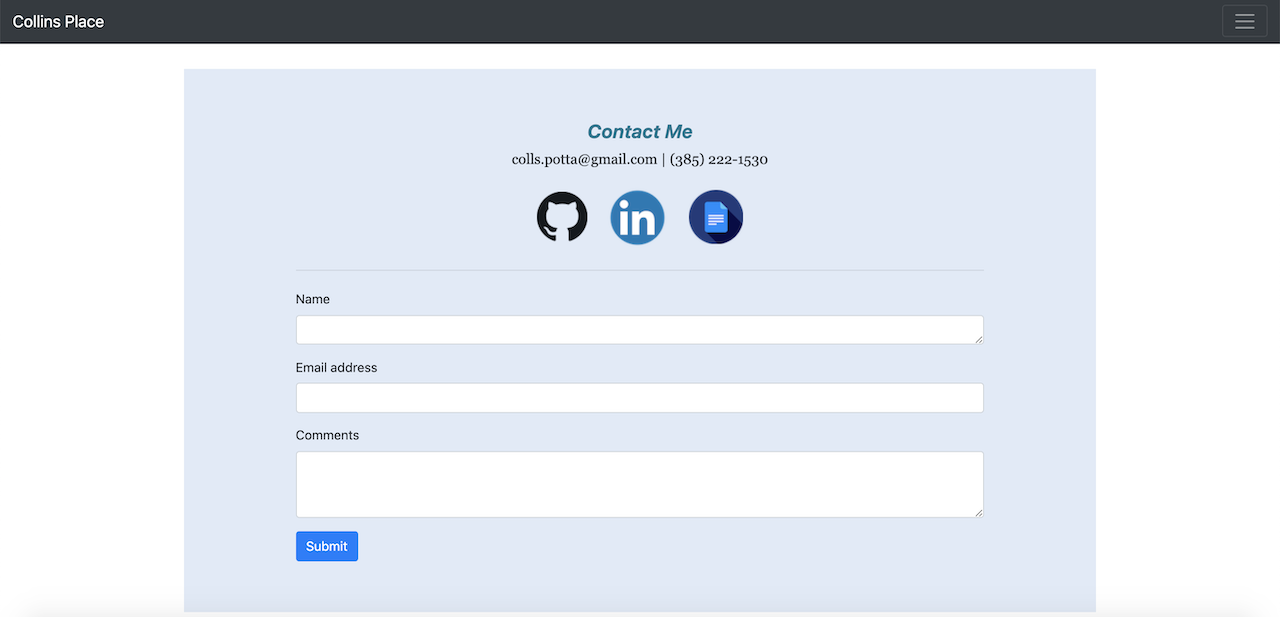
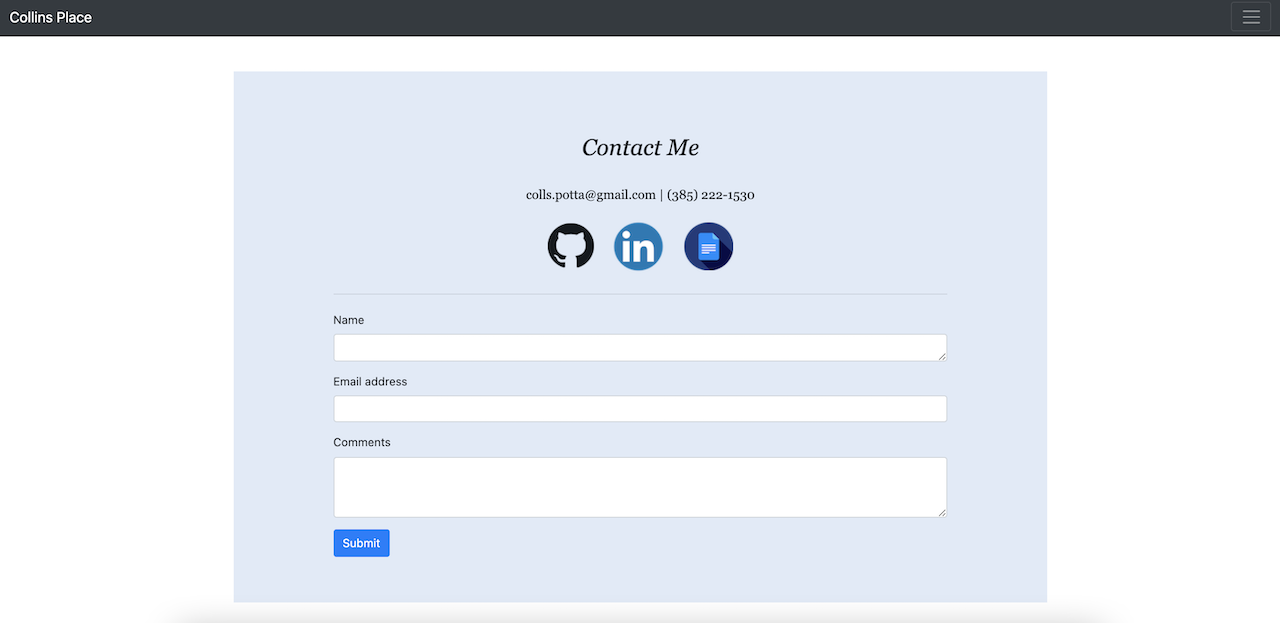
edited contact me image, edited README content in Description section, added MIT license, and added new images to README

diff --git a/README.md b/README.md
@@ -1,18 +1,22 @@
 # Collin Porter Portfolio
 
-Link to live site: [Collins Porfolio](https://portercol.github.io/Collin-Porter-Portfolio/)
+[![License](https://img.shields.io/badge/License-MIT-blue.svg)](https://opensource.org/licenses/MIT)
+
+Link to live site: [My Porfolio](https://portercol.github.io/Collin-Porter-Portfolio/)
 
 ## Description
 
 This application features 3 pages:
-1. The first section or "About Me" is where I show a few different images of my favorite things.
-2. The second section or "Professional Portfolio" is where I have some examples of different homework assignments and projects I've worked on. 
-3. The third section or "Contact Me" is where I have email and phone number listed and the user can add a name, email and comments in different input boxed to send me a message.
+1. The 'About Me' section I show a few different images with descriptions of my favorite things.
+2. The 'Professional Portfolio' section I display my professional Web Development projects I've worked on and completed with links to the live sites and the GitHub repo. 
+3. The 'Contact Me' section I have links to my GitHub, LinkedIn, Professional Resume, and a contact box for emails.
 
-![Collin Porter Portfolio](images/aboutme2.png)
-
-![Collin Porter Portfolio](images/profPortfolio.png)
-
+## App images
+1. About Me
+![Collin Porter Portfolio](images/aboutMe.png)
+2. Professional Portfolio
+![Collin Porter Portfolio](images/portfolio.png)
+3. Contact Me
 ![Collin Porter Portfolio](images/contactMe.png)
 
 
